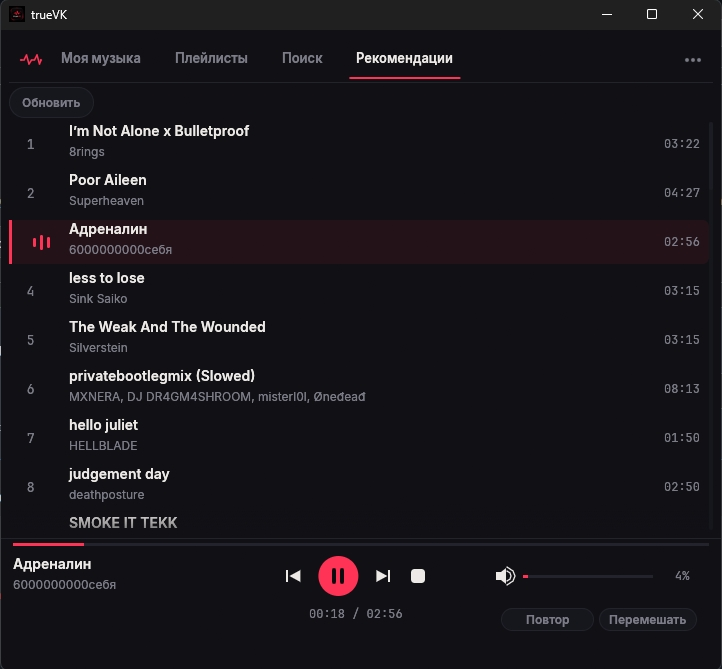
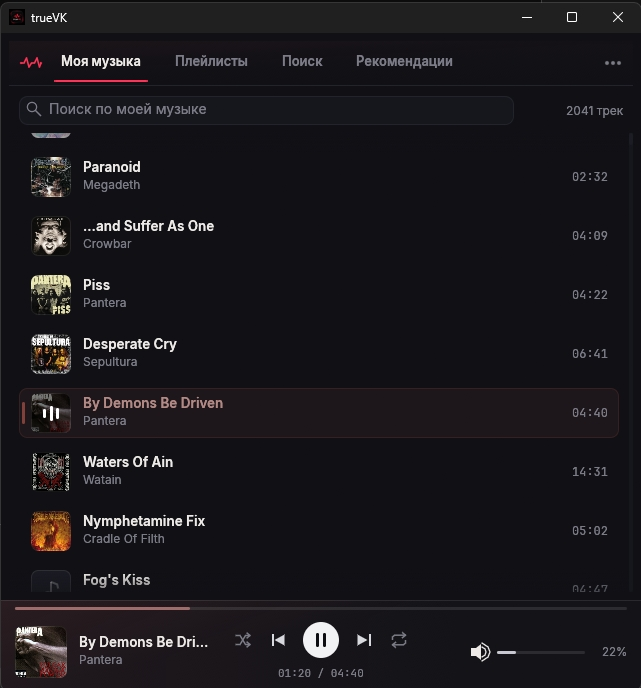
release: v0.4.0 (обновление версии, инсталлера и скриншотов).

diff --git a/README.md b/README.md
@@ -15,7 +15,7 @@
 </p>
 
 <p>
-  <a href="https://github.com/bledniyxvi/trueVK/releases/latest/download/trueVK-Setup-0.3.0.exe"><img src="https://img.shields.io/badge/Download-EXE-2ea44f?style=for-the-badge&amp;logo=github" alt="Скачать установщик" /></a>
+  <a href="https://github.com/bledniyxvi/trueVK/releases/latest/download/trueVK-Setup-0.4.0.exe"><img src="https://img.shields.io/badge/Download-EXE-2ea44f?style=for-the-badge&amp;logo=github" alt="Скачать установщик" /></a>
 </p>
 
 </div>
@@ -70,15 +70,12 @@
 | <kbd>←</kbd> / <kbd>→</kbd> | перемотка на 5 секунд назад / вперёд |
 | Медиаклавиши | play/pause, stop, следующий, предыдущий |
 
-## Что нового в 0.3.0
+## Что нового в 0.4.0
 
-- **Чистка и надёжность.** Удалён неиспользуемый консольный код, исправлены падения при разборе ссылок с кириллицей, ошибки авторизации определяются по коду VK API, настройки сохраняются атомарно.
-- **Без зависаний.** Загрузка трека идёт в фоне и отменяется: пауза, перемотка и следующий трек не ждут сеть. Второй запуск программы открывает уже работающее окно, а не завершается молча.
-- **Плавный звук.** Логарифмическая кривая громкости, затухание и появление звука (~40 мс) при паузе, возобновлении и смене трека.
-- **Устойчивый звук.** При смене или ошибке аудиоустройства поток пересоздаётся, трек продолжается с текущей позиции.
-- **Похожие треки.** Радио по выбранному треку через рекомендации VK, без ручного поиска.
-- **Сохранение MP3.** Играющий трек можно сохранить в «Музыку» или «Загрузки» с именем «Исполнитель - Название».
-- **Меньше нагрузки в фоне.** Монитор воспроизведения не опрашивает плеер на паузе, логи обрезаются реже, шрифт для CJK загружается только при необходимости.
+- **Новый интерфейс.** Полностью обновлённый тёмный дизайн с подсветкой от цвета обложки текущего трека. Без анимаций: 0% CPU в простое и во время игры.
+- **Нижняя панель.** Белая кнопка Play/Pause, чистые векторные иконки Shuffle, Prev, Next и Repeat, полоса перемотки с превью времени при наведении и аккуратная регулировка громкости.
+- **Списки.** Скруглённые карточки без лишней нумерации, обложки с рамкой, эквалайзер поверх играющей обложки и обновлённая заглушка. Обложки треков и плейлистов загружаются в память без кэша на диске.
+- **Мелкие правки.** Исправлены русские подписи и счётчик треков, консольное окно на Windows скрыто.
 
 ## Как выглядит
 
@@ -93,14 +90,14 @@
 
 ## Установка
 
-1. [Скачать `trueVK-Setup-0.3.0.exe`](https://github.com/bledniyxvi/trueVK/releases/latest/download/trueVK-Setup-0.3.0.exe) или зайти в [Releases](https://github.com/bledniyxvi/trueVK/releases).
+1. [Скачать `trueVK-Setup-0.4.0.exe`](https://github.com/bledniyxvi/trueVK/releases/latest/download/trueVK-Setup-0.4.0.exe) или зайти в [Releases](https://github.com/bledniyxvi/trueVK/releases).
 2. Запустить установщик — права администратора не нужны.
 3. По умолчанию программа ставится в `%LOCALAPPDATA%\Programs\trueVK`. Ярлык в меню «Пуск» создаётся всегда, ярлык на рабочем столе — по желанию.
 
 <details>
 <summary>SHA256 установщика</summary>
 
[2 lines of base64/hex data omitted]
 
 </details>
 
@@ -128,7 +125,7 @@ cargo build --release
 powershell -ExecutionPolicy Bypass -File installer\build.ps1
 ```
 
-Скрипт сам соберёт Release, создаст `installer\Output\trueVK-Setup-0.3.0.exe` и выведет его размер и SHA256.
+Скрипт сам соберёт Release, создаст `installer\Output\trueVK-Setup-0.4.0.exe` и выведет его размер и SHA256.
 
 <details>
 <summary>Структура проекта</summary>
